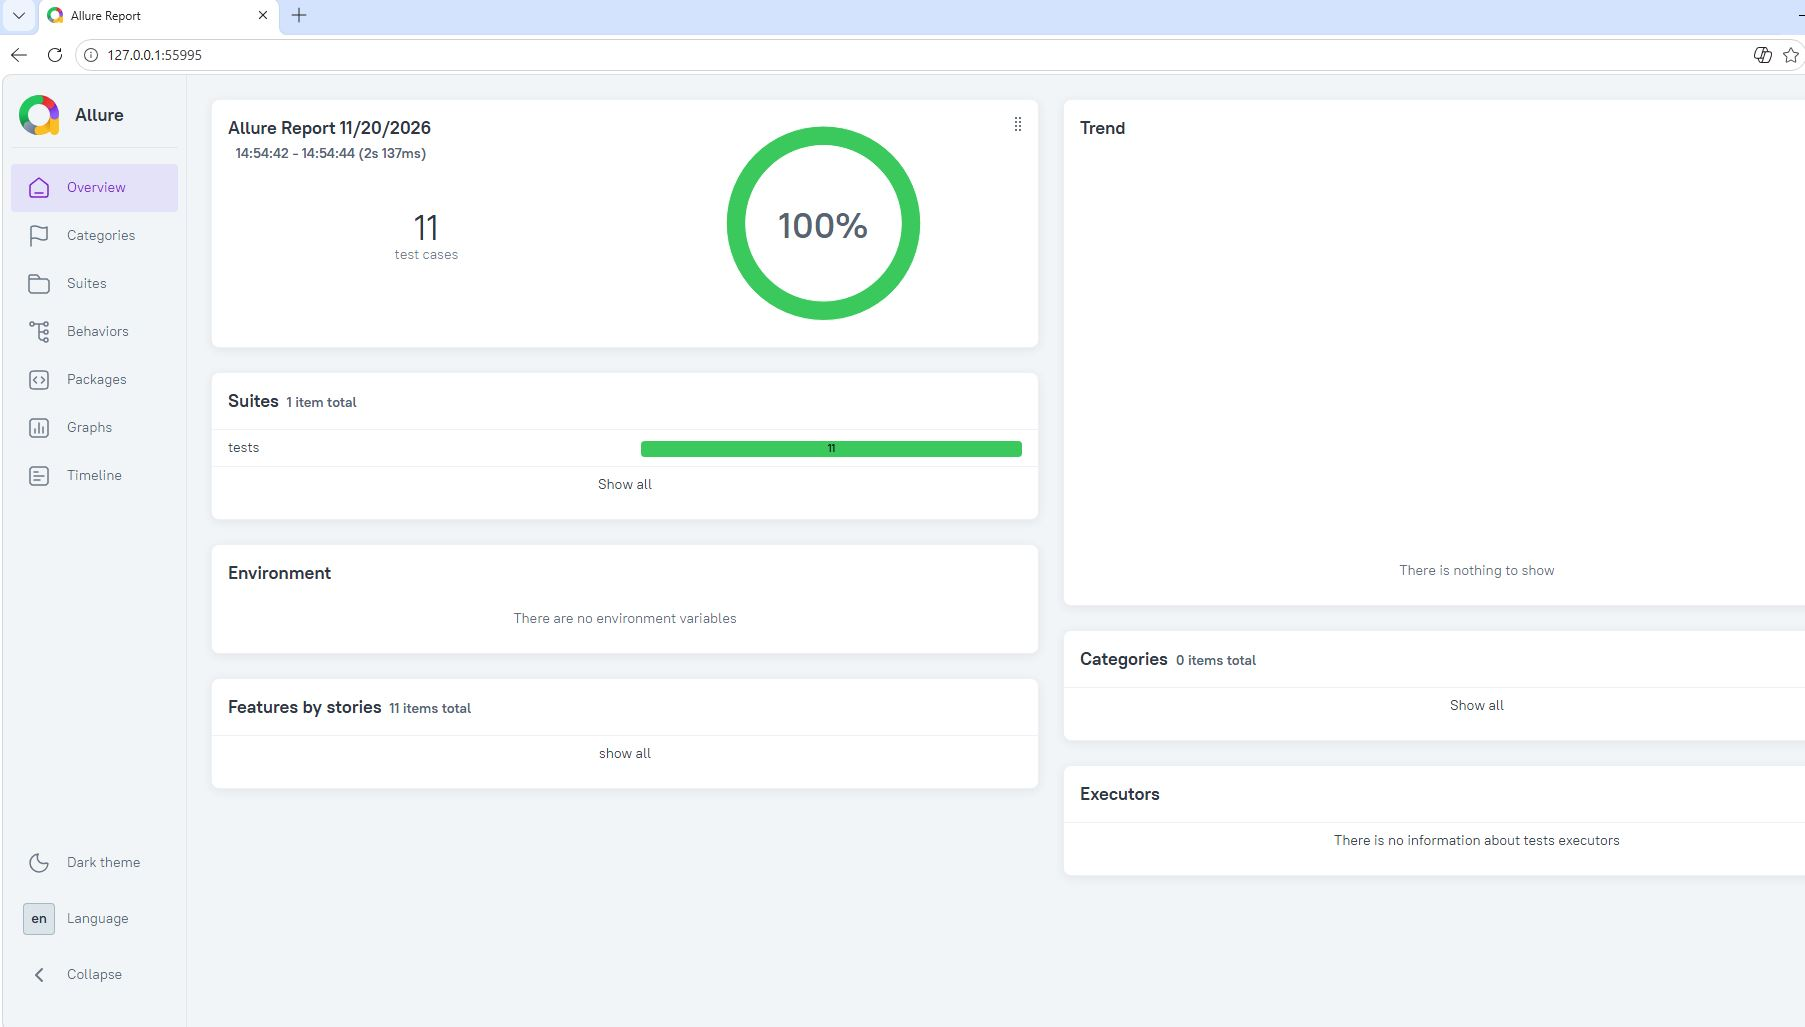
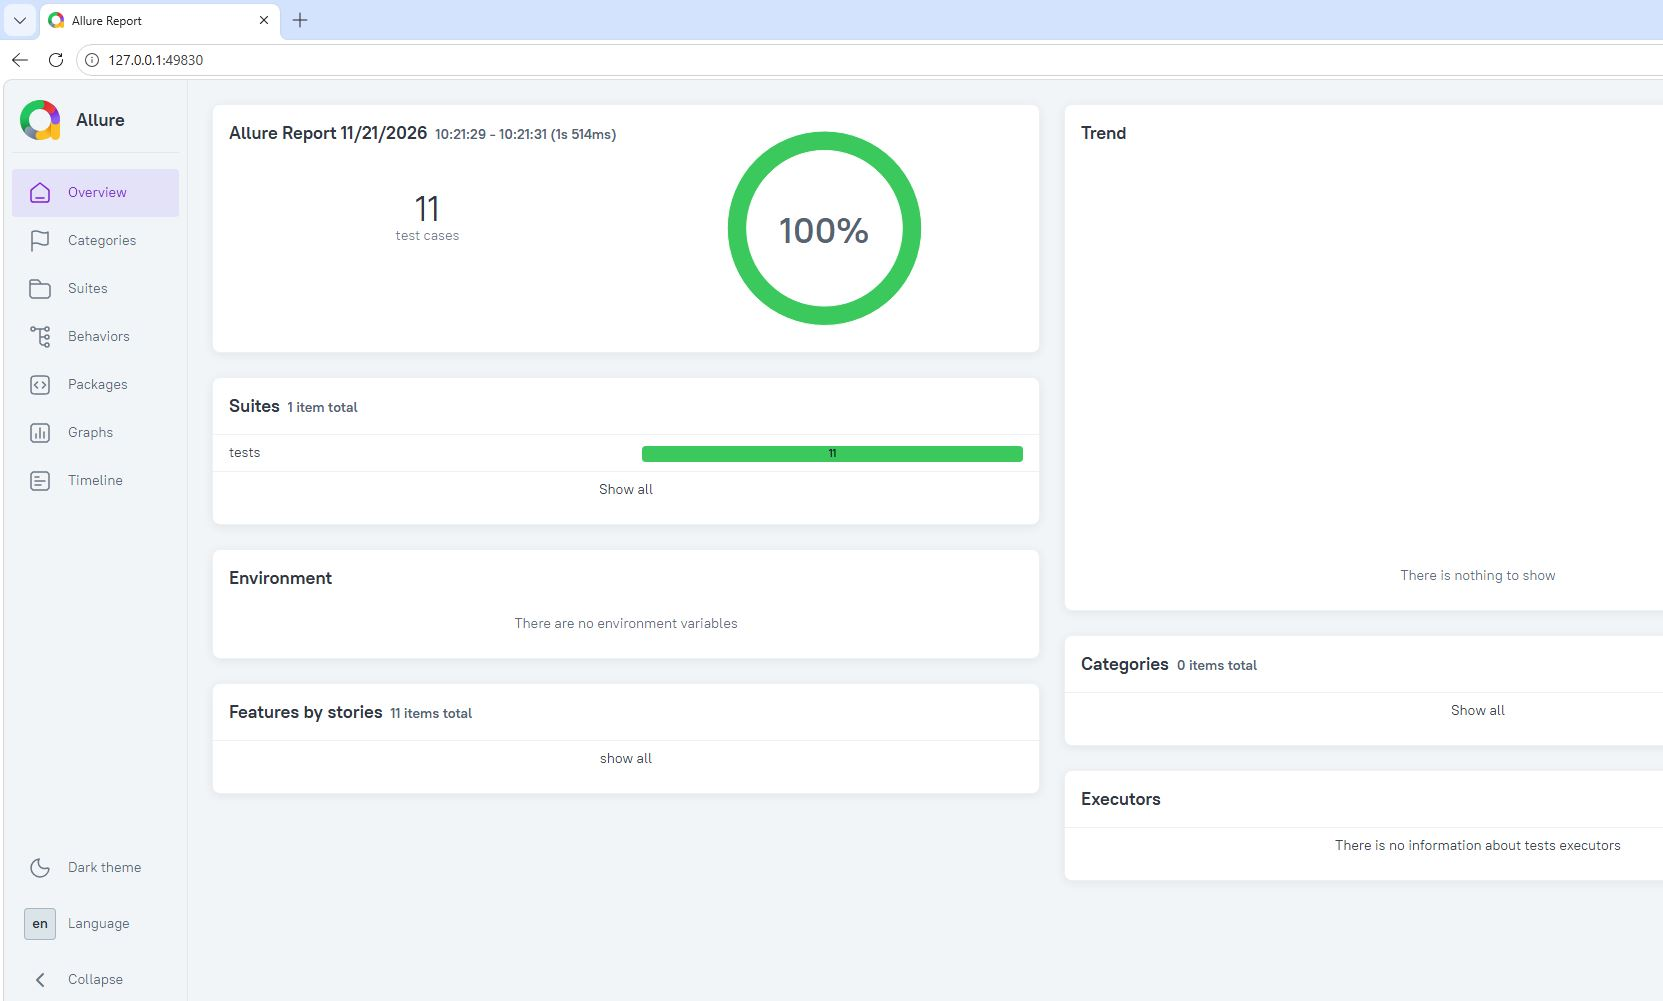
Update tests

diff --git a/tests/test_create_order.py b/tests/test_create_order.py
@@ -1,8 +1,6 @@
 import allure
 import requests
-
 from data.handlers import Urls, Handlers
-
 
 
 @allure.suite("Создание заказа")
@@ -11,37 +9,47 @@ class TestCreateOrder:
     @allure.title("Создание заказа авторизованным пользователем")
     @allure.description("Проверка успешного создания заказа с валидным токеном и актуальными ингредиентами")
     def test_create_order_with_auth(self, create_user, valid_ingredients):
-        token = {'Authorization': create_user[3]}
-        r = requests.post(
-            f"{Urls.MAIN_URL}{Handlers.MAKE_ORDER}",
-            headers=token,
-            json=valid_ingredients
-        )
-        assert r.status_code == 200 and r.json().get("success") is True
+        access_token = create_user[0].json().get("accessToken")
+        headers = {"Authorization": access_token}
+
+        with allure.step("Отправка запроса на создание заказа авторизованным пользователем"):
+            response = requests.post(
+                f"{Urls.MAIN_URL}{Handlers.MAKE_ORDER}",
+                headers=headers,
+                json=valid_ingredients
+            )
+
+        with allure.step("Проверка статус-кода и тела ответа"):
+            assert response.status_code == 200 and response.json().get("success") is True
 
     @allure.title("Создание заказа неавторизованным пользователем")
     @allure.description("Проверка успешного создания заказа без передачи токена авторизации")
     def test_create_order_not_auth(self, valid_ingredients):
-        r = requests.post(
-            f"{Urls.MAIN_URL}{Handlers.MAKE_ORDER}",
-            json=valid_ingredients
-        )
+        with allure.step("Отправка запроса на создание заказа без авторизации"):
+            r = requests.post(
+                f"{Urls.MAIN_URL}{Handlers.MAKE_ORDER}",
+                json=valid_ingredients
+            )
         assert r.status_code == 200 and r.json().get("success") is True
 
     @allure.title("Создание заказа без ингредиентов")
     @allure.description("Проверка получения ошибки 400 при попытке создать заказ без передачи ингредиентов")
     def test_create_order_without_ingredients(self):
-        r = requests.post(
-            f"{Urls.MAIN_URL}{Handlers.MAKE_ORDER}",
-            json={"ingredients": []}
-        )
+        with allure.step("Отправка запроса на создание заказа без ингредиентов"):
+            r = requests.post(
+                f"{Urls.MAIN_URL}{Handlers.MAKE_ORDER}",
+                json={"ingredients": []}
+            )
         assert r.status_code == 400 and r.json().get("message") == "Ingredient ids must be provided"
 
     @allure.title("Создание заказа с невалидным хешем ингредиента")
     @allure.description("Проверка получения ошибки 500 при передаче некорректного хеша ингредиентов")
     def test_create_order_invalid_hash_ingredient(self, invalid_ingredients):
-        r = requests.post(
-            f"{Urls.MAIN_URL}{Handlers.MAKE_ORDER}",
-            json=invalid_ingredients
-        )
+        with allure.step("Отправка запроса на создание заказа с невалидным хешем ингредиента"):
+            r = requests.post(
+                f"{Urls.MAIN_URL}{Handlers.MAKE_ORDER}",
+                json=invalid_ingredients
+            )
         assert r.status_code == 500 and "Internal Server Error" in r.text
+
+

diff --git a/tests/test_create_user.py b/tests/test_create_user.py
@@ -9,22 +9,30 @@ from data.user_data import User
 @allure.suite('Создание пользователя')
 class TestCreateUser:
 
-    @allure.description('Создание нового пользователя')
+    @allure.description('Проверка успешного создания уникального пользователя')
     @allure.title('Создание нового пользователя')
-    def test_create_new_user_success(self):
-        response = requests.post(f'{Urls.MAIN_URL}{Handlers.CREATE_USER}', data=User.create_data_user())
+    def test_create_new_user_success(self, delete_user):
+        with allure.step('Отправить запрос на создание нового пользователя'):
+            response = requests.post(
+                f'{Urls.MAIN_URL}{Handlers.CREATE_USER}',
+                data=User.create_data_user()
+            )
+            delete_user["token"] = response.json().get("accessToken")
+
         assert response.status_code == 200 and response.json()["success"] is True
 
     @allure.description('При создании дублирующего пользователя срабатывает allert ')
     @allure.title('Создание пользователя который уже есть в системе')
     def test_create_double_user_error(self):
-        response = requests.post(f'{Urls.MAIN_URL}{Handlers.CREATE_USER}', data=User.data_double)
+        with allure.step('Отправить запрос на создание дублирующего пользователя'):
+            response = requests.post(f'{Urls.MAIN_URL}{Handlers.CREATE_USER}', data=User.data_double)
         assert response.status_code == 403 and 'User already exists' in response.text
 
     @allure.description('При создании пользователя с некорректыми данными срабатывает allert')
     @allure.title('Создание пользователя с некорректными данными/ с незаполненными обязательными полями')
     @pytest.mark.parametrize("user_data", [User.data_without_email, User.data_without_password, User.data_without_name])
     def test_create_user_incorrect_data(self, user_data):
-        response = requests.post(f'{Urls.MAIN_URL}{Handlers.CREATE_USER}', data=user_data)
+        with allure.step('Отправить запрос на создание пользователя с некорректными данными'):
+            response = requests.post(f'{Urls.MAIN_URL}{Handlers.CREATE_USER}', data=user_data)
         assert response.status_code == 403 and 'Email, password and name are required fields' in response.text
         

diff --git a/tests/test_login_user.py b/tests/test_login_user.py
@@ -11,12 +11,14 @@ class Testlogin:
     @allure.description('При авторизация под пользователем, который есть в системе, происходит успешная авторизация')
     @allure.title('Авторизация под пользователем, который есть в системе')
     def test_login_user(self):
-        response = requests.post(f'{Urls.MAIN_URL}{Handlers.LOGIN}', data=User.data_correct)
+        with allure.step('Отправить запрос на авторизацию с корректными данными'):
+            response = requests.post(f'{Urls.MAIN_URL}{Handlers.LOGIN}', data=User.data_correct)
         assert response.status_code == 200 and response.json().get('success') == True
 
     @allure.description('При авторизация под пользователем с некорректным логином/паролем, срабатывает allert')
     @allure.title('Авторизация с некорректным логином/паролем')
     def test_login_user_error(self):
-        response = requests.post(f'{Urls.MAIN_URL}{Handlers.LOGIN}', data=User.data_negative)
+        with allure.step('Отправить запрос на авторизацию с некорректным логином/паролем'):
+            response = requests.post(f'{Urls.MAIN_URL}{Handlers.LOGIN}', data=User.data_negative)
         assert response.status_code == 401 and response.json().get('success') == False
         

diff --git a/conftest.py b/conftest.py
@@ -15,6 +15,17 @@ def create_user():
     yield response, payload, login_data, token
     requests.delete(f"{Urls.MAIN_URL}{Handlers.DELETE_USER}", headers={'Authorization': f'{token}'})
 
+@pytest.fixture(scope="function")
+def delete_user():
+    user_data = {"token": None}
+    
+    yield user_data
+    
+    requests.delete(
+        f"{Urls.MAIN_URL}{Handlers.DELETE_USER}",
+        headers={"Authorization": f"{user_data['token']}"}
+    )
+
 @pytest.fixture
 def valid_ingredients():
     response = requests.get(f'{Urls.MAIN_URL}/api/ingredients')
